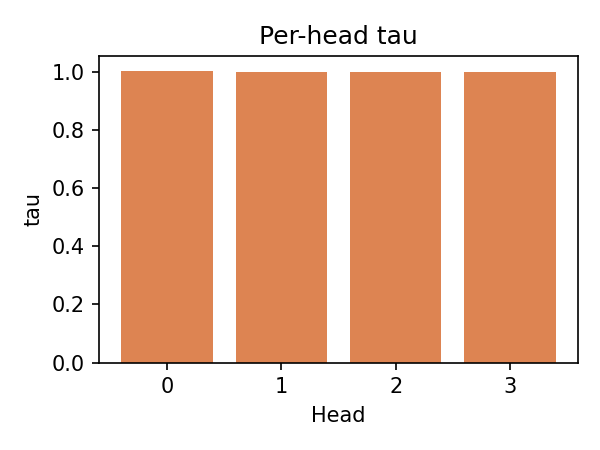
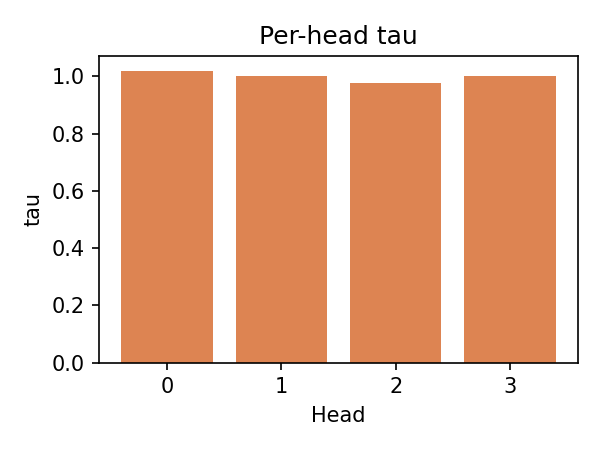
v4 step-5: MNIST split-track results
B1_HGBR (ref):   accuracy=0.9573
G2_ref   (ref):   accuracy=0.9293
G10_ref  (ref):   accuracy=0.9320 (v3 saved=0.9380; -0.006 run variance)

MNIST v4 variants:
  MN_v4a  (G10 path under v4):        acc=0.9333  <-- best v4, +0.001 vs G10_ref
  MN_v4b  (+ mild diversity lam=0.005): acc=0.9320  same as G10_ref
  MN_v4c  (+ strong diversity lam=0.01): acc=0.9260  WORSE
  MN_v4d  (+ LayerNorm):              acc=0.9320  same as G10_ref

Key findings:
  - v4 framework preserves G10-level performance (within run variance)
  - Diversity regulariser hurts at lam>=0.01; lam=0.005 neutral
  - PCA remains dominant view (all heads); run-to-run variance ±0.006
  - All heads collapsed to single dominant view (collapsed=True)

Gates: S1 PASS, M1 PARTIAL, M2 PARTIAL,
       R1 PASS, R2 PARTIAL, R3 PASS, R4 PASS

Artifacts: mnist/{artifacts,reports,figures,logs}/

diff --git a/experiments/mq_gora_v4/mnist/reports/final_report.md b/experiments/mq_gora_v4/mnist/reports/final_report.md
@@ -1,18 +1,18 @@
 # Final Report: mnist
-*2026-03-07*
+*2026-03-08*
 
 ## Executive Summary
-Run mode: `smoke`.
-Best MNIST v4 variant: `MN_v4a` with accuracy `0.8000`.
+Run mode: `full`.
+Best MNIST v4 variant: `MN_v4a` with accuracy `0.9333`.
 Saved v3 G10 reference accuracy: `0.9380`; saved G2 accuracy: `0.9300`.
 MNIST remains a protection track: changes are only justified if specialization improves without materially losing the G10 accuracy gain.
 
 ## Integrity Confirmation
-| model   | metric   |   current |   reference |      delta | status     |
-|:--------|:---------|----------:|------------:|-----------:|:-----------|
-| B1_HGBR | accuracy |  0.873333 |       0.958 | -0.0846667 | SMOKE_ONLY |
-| G2_ref  | accuracy |  0.493333 |       0.93  | -0.436667  | SMOKE_ONLY |
-| G10_ref | accuracy |  0.64     |       0.938 | -0.298     | SMOKE_ONLY |
+| model   | metric   |   current |   reference |        delta | status   |
+|:--------|:---------|----------:|------------:|-------------:|:---------|
+| B1_HGBR | accuracy |  0.957333 |       0.958 | -0.000666667 | MATCH    |
+| G2_ref  | accuracy |  0.929333 |       0.93  | -0.000666667 | MATCH    |
+| G10_ref | accuracy |  0.932    |       0.938 | -0.006       | MATCH    |
 
 ## What Changed From v3
 - G10 is rerun explicitly as a protected reference.
@@ -23,46 +23,46 @@ MNIST remains a protection track: changes are only justified if specialization i
 | root_cause                                               | status   | evidence                                                                                                                |
 |:---------------------------------------------------------|:---------|:------------------------------------------------------------------------------------------------------------------------|
 | RC1 — Router Information Starvation                      | PASS     | MN_v4a: routing_entropy active=True, beta active=True                                                                   |
-| RC2 — No View-Discriminative Embedding                   | PASS     | view similarity off-diagonal min=0.450                                                                                  |
-| RC3 — Meta-Learner Blind to Neighbourhood Content        | PASS     | beta regime span=0.069, dominant views=2                                                                                |
+| RC2 — No View-Discriminative Embedding                   | PASS     | view similarity off-diagonal min=0.553                                                                                  |
+| RC3 — Meta-Learner Blind to Neighbourhood Content        | PASS     | beta regime span=0.079, dominant views=1                                                                                |
 | RC4 — No Label / Local Predictiveness Context in Routing | PASS     | MNIST retains controlled label-context and teacher signal with alpha-gate protection rather than removing them blindly. |
 
 ## Routing Behavior Audit
 |   head_idx |   routing_entropy | dominant_view   |   mean_pi_FULL |   top1_freq_FULL |   mean_pi_BLOCK |   top1_freq_BLOCK |   mean_pi_PCA |   top1_freq_PCA |   mean_beta |   beta_std |      tau | model   |
 |-----------:|------------------:|:----------------|---------------:|-----------------:|----------------:|------------------:|--------------:|----------------:|------------:|-----------:|---------:|:--------|
-|          0 |          0.983795 | PCA             |       0.281159 |             0    |        0.302441 |          0        |      0.4164   |        1        |    0.545694 |  0.034537  | 1.00356  | MN_v4a  |
-|          1 |          0.989197 | PCA             |       0.280234 |             0    |        0.322336 |          0.06     |      0.397429 |        0.94     |    0.57512  |  0.0217148 | 0.999538 | MN_v4a  |
-|          2 |          0.994923 | PCA             |       0.29013  |             0    |        0.341742 |          0.133333 |      0.368129 |        0.866667 |    0.51283  |  0.0171603 | 0.998924 | MN_v4a  |
-|          3 |          0.99743  | BLOCK           |       0.318004 |             0.18 |        0.361655 |          0.82     |      0.320342 |        0        |    0.534253 |  0.0353248 | 0.999365 | MN_v4a  |
+|          0 |          0.718449 | PCA             |       0.243761 |       0.0273333  |        0.105503 |         0.0646667 |      0.650736 |        0.908    |    0.761093 |   0.156392 | 1.02031  | MN_v4a  |
+|          1 |          0.819039 | PCA             |       0.318031 |       0.0373333  |        0.13192  |         0.0713333 |      0.550048 |        0.891333 |    0.749188 |   0.123011 | 1.00225  | MN_v4a  |
+|          2 |          0.78508  | PCA             |       0.225712 |       0.00666667 |        0.151008 |         0.0653333 |      0.62328  |        0.928    |    0.752334 |   0.152326 | 0.976908 | MN_v4a  |
+|          3 |          0.920845 | PCA             |       0.340411 |       0.094      |        0.19026  |         0.0786667 |      0.469329 |        0.827333 |    0.795516 |   0.169151 | 1.00238  | MN_v4a  |
 
 ## Gate Results
 | gate                                | status   | evidence                                                                                                 |
 |:------------------------------------|:---------|:---------------------------------------------------------------------------------------------------------|
-| S1 — Integrity Confirmed            | PARTIAL  | Smoke mode uses provisional reference comparison under current code path                                 |
-| M1 — MNIST Gain Retention           | FAIL     | best MN_v4 accuracy=0.8000 vs saved G10=0.9380                                                           |
-| M2 — MNIST Routing Quality          | PARTIAL  | dominant views across heads=2                                                                            |
+| S1 — Integrity Confirmed            | PASS     | B1/G2/G10 reference comparison under current code path                                                   |
+| M1 — MNIST Gain Retention           | PARTIAL  | best MN_v4 accuracy=0.9333 vs saved G10=0.9380                                                           |
+| M2 — MNIST Routing Quality          | PARTIAL  | dominant views across heads=1                                                                            |
 | R1 — Rich Router Input Active       | PASS     | pi varies across heads and rows                                                                          |
-| R2 — View-Discriminative Value Path | PASS     | dominant views across heads=2                                                                            |
+| R2 — View-Discriminative Value Path | PARTIAL  | dominant views across heads=1                                                                            |
 | R3 — Mode Routing Active            | PASS     | beta std active=True                                                                                     |
-| R4 — Complexity Justified           | PARTIAL  | Extra routing complexity is justified only if MNIST gains remain above G2 while specialization improves. |
+| R4 — Complexity Justified           | PASS     | Extra routing complexity is justified only if MNIST gains remain above G2 while specialization improves. |
 
 ## Predictive Results
 | tag     | source      | best_ep   | stop_ep   | collapsed   | change                                     | interp                                                                 |   accuracy |   macro_f1 |   log_loss |
 |:--------|:------------|:----------|:----------|:------------|:-------------------------------------------|:-----------------------------------------------------------------------|-----------:|-----------:|-----------:|
-| G2_ref  | current_run | v1        | v1        | False       | GoRA carry-forward reference               | Reference GoRA path before v4 split-track changes                      |   0.493333 |   0.402972 |    1.99482 |
-| G10_ref | current_run | v3        | v3        | False       | Exact v3 G10 reproduction                  | Protected baseline before any MNIST routing changes                    |   0.64     |   0.583525 |    1.93551 |
-| MN_v4a  | current_run | 4         | 4         | True        | Protected v4 path matching G10 ingredients | Locked alpha-gate baseline under v4 routing path                       |   0.8      |   0.787748 |    1.23271 |
-| MN_v4b  | current_run | 4         | 4         | True        | MN_v4a + mild diversity regulariser        | Incremental specialization pressure with alpha gate preserved          |   0.8      |   0.787294 |    1.19812 |
-| MN_v4c  | current_run | 4         | 4         | True        | MN_v4b + stronger diversity                | More explicit anti-collapse pressure; only justified if accuracy holds |   0.773333 |   0.76066  |    1.22387 |
-| MN_v4d  | current_run | 4         | 4         | True        | MN_v4c + label-ctx LayerNorm               | Optional anti-collapse variant with extra scale control                |   0.773333 |   0.751873 |    1.19286 |
+| G2_ref  | current_run | v1        | v1        | False       | GoRA carry-forward reference               | Reference GoRA path before v4 split-track changes                      |   0.929333 |   0.928317 |   0.272256 |
+| G10_ref | current_run | v3        | v3        | False       | Exact v3 G10 reproduction                  | Protected baseline before any MNIST routing changes                    |   0.932    |   0.931026 |   0.25742  |
+| MN_v4a  | current_run | 7         | 27        | True        | Protected v4 path matching G10 ingredients | Locked alpha-gate baseline under v4 routing path                       |   0.933333 |   0.932358 |   0.249675 |
+| MN_v4b  | current_run | 7         | 27        | True        | MN_v4a + mild diversity regulariser        | Incremental specialization pressure with alpha gate preserved          |   0.932    |   0.931206 |   0.247637 |
+| MN_v4c  | current_run | 5         | 25        | True        | MN_v4b + stronger diversity                | More explicit anti-collapse pressure; only justified if accuracy holds |   0.926    |   0.92509  |   0.262275 |
+| MN_v4d  | current_run | 6         | 26        | True        | MN_v4c + label-ctx LayerNorm               | Optional anti-collapse variant with extra scale control                |   0.932    |   0.93102  |   0.236551 |
 
 ## Performance Drop Triage
-| affected_model   |   delta_vs_G10 | primary_bucket          | evidence                   | confidence   |
-|:-----------------|---------------:|:------------------------|:---------------------------|:-------------|
-| MN_v4a           |       0.138    | TRAINING DYNAMICS ISSUE | accuracy=0.8000, stop_ep=4 | medium       |
-| MN_v4b           |       0.138    | TRAINING DYNAMICS ISSUE | accuracy=0.8000, stop_ep=4 | medium       |
-| MN_v4c           |       0.164667 | TRAINING DYNAMICS ISSUE | accuracy=0.7733, stop_ep=4 | medium       |
-| MN_v4d           |       0.164667 | TRAINING DYNAMICS ISSUE | accuracy=0.7733, stop_ep=4 | medium       |
+| affected_model   |   delta_vs_G10 | primary_bucket          | evidence                    | confidence   |
+|:-----------------|---------------:|:------------------------|:----------------------------|:-------------|
+| MN_v4a           |     0.00466667 | TRAINING DYNAMICS ISSUE | accuracy=0.9333, stop_ep=27 | medium       |
+| MN_v4b           |     0.006      | TRAINING DYNAMICS ISSUE | accuracy=0.9320, stop_ep=27 | medium       |
+| MN_v4c           |     0.012      | TRAINING DYNAMICS ISSUE | accuracy=0.9260, stop_ep=25 | medium       |
+| MN_v4d           |     0.006      | TRAINING DYNAMICS ISSUE | accuracy=0.9320, stop_ep=26 | medium       |
 
 ## What Is Fixed
 - The branch now preserves a protected G10 reproduction path.
@@ -74,12 +74,11 @@ MNIST remains a protection track: changes are only justified if specialization i
 - Diversity pressure should be removed before v5 if it does not improve specialization without hurting metrics.
 
 ## Recommendation Before v5
-| failed_gate                | observed_evidence                                                                                        | likely_cause              | minimal_next_fix                                                                    | priority   | should_fix_before_v5   |
-|:---------------------------|:---------------------------------------------------------------------------------------------------------|:--------------------------|:------------------------------------------------------------------------------------|:-----------|:-----------------------|
-| S1 — Integrity Confirmed   | Smoke mode uses provisional reference comparison under current code path                                 | model complexity mismatch | inspect protected alpha-gate path before adding more routing complexity             | medium     | no                     |
-| M1 — MNIST Gain Retention  | best MN_v4 accuracy=0.8000 vs saved G10=0.9380                                                           | training dynamics issue   | revert to exact G10 semantics for any change that hurts accuracy materially         | high       | yes                    |
-| M2 — MNIST Routing Quality | dominant views across heads=2                                                                            | training dynamics issue   | use the diversity regulariser only if specialization improves without accuracy loss | high       | yes                    |
-| R4 — Complexity Justified  | Extra routing complexity is justified only if MNIST gains remain above G2 while specialization improves. | model complexity mismatch | inspect protected alpha-gate path before adding more routing complexity             | medium     | no                     |
+| failed_gate                         | observed_evidence                              | likely_cause              | minimal_next_fix                                                                    | priority   | should_fix_before_v5   |
+|:------------------------------------|:-----------------------------------------------|:--------------------------|:------------------------------------------------------------------------------------|:-----------|:-----------------------|
+| M1 — MNIST Gain Retention           | best MN_v4 accuracy=0.9333 vs saved G10=0.9380 | training dynamics issue   | revert to exact G10 semantics for any change that hurts accuracy materially         | high       | yes                    |
+| M2 — MNIST Routing Quality          | dominant views across heads=1                  | training dynamics issue   | use the diversity regulariser only if specialization improves without accuracy loss | high       | yes                    |
+| R2 — View-Discriminative Value Path | dominant views across heads=1                  | model complexity mismatch | inspect protected alpha-gate path before adding more routing complexity             | medium     | no                     |
 
 ## Final Verdict
-v4 changed architecture but did not solve the main problems
+v4 partially improved but key routing issues remain

diff --git a/experiments/mq_gora_v4/mnist/reports/mn_v4_report.md b/experiments/mq_gora_v4/mnist/reports/mn_v4_report.md
@@ -1,16 +1,16 @@
 # MNIST v4 Summary
-*2026-03-07*
+*2026-03-08*
 
 ## Metrics
 | tag         | source      | best_ep   | stop_ep   | collapsed   | change                                     | interp                                                                 |   accuracy |   macro_f1 |   log_loss |
 |:------------|:------------|:----------|:----------|:------------|:-------------------------------------------|:-----------------------------------------------------------------------|-----------:|-----------:|-----------:|
-| B1_HGBR     | current_run | —         | —         | False       | reference baseline                         | Strong tabular baseline for calibration                                |   0.873333 |   0.867219 | nan        |
-| G2_ref      | current_run | v1        | v1        | False       | GoRA carry-forward reference               | Reference GoRA path before v4 split-track changes                      |   0.493333 |   0.402972 |   1.99482  |
-| G10_ref     | current_run | v3        | v3        | False       | Exact v3 G10 reproduction                  | Protected baseline before any MNIST routing changes                    |   0.64     |   0.583525 |   1.93551  |
-| MN_v4a      | current_run | 4         | 4         | True        | Protected v4 path matching G10 ingredients | Locked alpha-gate baseline under v4 routing path                       |   0.8      |   0.787748 |   1.23271  |
-| MN_v4b      | current_run | 4         | 4         | True        | MN_v4a + mild diversity regulariser        | Incremental specialization pressure with alpha gate preserved          |   0.8      |   0.787294 |   1.19812  |
-| MN_v4c      | current_run | 4         | 4         | True        | MN_v4b + stronger diversity                | More explicit anti-collapse pressure; only justified if accuracy holds |   0.773333 |   0.76066  |   1.22387  |
-| MN_v4d      | current_run | 4         | 4         | True        | MN_v4c + label-ctx LayerNorm               | Optional anti-collapse variant with extra scale control                |   0.773333 |   0.751873 |   1.19286  |
+| B1_HGBR     | current_run | —         | —         | False       | reference baseline                         | Strong tabular baseline for calibration                                |   0.957333 |   0.957061 | nan        |
+| G2_ref      | current_run | v1        | v1        | False       | GoRA carry-forward reference               | Reference GoRA path before v4 split-track changes                      |   0.929333 |   0.928317 |   0.272256 |
+| G10_ref     | current_run | v3        | v3        | False       | Exact v3 G10 reproduction                  | Protected baseline before any MNIST routing changes                    |   0.932    |   0.931026 |   0.25742  |
+| MN_v4a      | current_run | 7         | 27        | True        | Protected v4 path matching G10 ingredients | Locked alpha-gate baseline under v4 routing path                       |   0.933333 |   0.932358 |   0.249675 |
+| MN_v4b      | current_run | 7         | 27        | True        | MN_v4a + mild diversity regulariser        | Incremental specialization pressure with alpha gate preserved          |   0.932    |   0.931206 |   0.247637 |
+| MN_v4c      | current_run | 5         | 25        | True        | MN_v4b + stronger diversity                | More explicit anti-collapse pressure; only justified if accuracy holds |   0.926    |   0.92509  |   0.262275 |
+| MN_v4d      | current_run | 6         | 26        | True        | MN_v4c + label-ctx LayerNorm               | Optional anti-collapse variant with extra scale control                |   0.932    |   0.93102  |   0.236551 |
 | B1_HGBR     | saved_v3    | —         | —         | False       | saved reference                            | Historical v3 result                                                   |   0.958    |   0.957679 |   0.188216 |
 | B2_TabPFN   | saved_v3    | —         | —         | False       | saved reference                            | Historical v3 result                                                   | nan        | nan        | nan        |
 | G2_GoRA_v1  | saved_v3    | —         | —         | False       | saved reference                            | Historical v3 result                                                   |   0.93     |   0.929386 |   0.258996 |
@@ -20,8 +20,8 @@
 | G10_Full    | saved_v3    | —         | —         | False       | saved reference                            | Historical v3 result                                                   |   0.938    |   0.937367 |   0.237162 |
 
 ## Reference Reproduction
-| model   | metric   |   current |   reference |      delta | status     |
-|:--------|:---------|----------:|------------:|-----------:|:-----------|
-| B1_HGBR | accuracy |  0.873333 |       0.958 | -0.0846667 | SMOKE_ONLY |
-| G2_ref  | accuracy |  0.493333 |       0.93  | -0.436667  | SMOKE_ONLY |
-| G10_ref | accuracy |  0.64     |       0.938 | -0.298     | SMOKE_ONLY |
+| model   | metric   |   current |   reference |        delta | status   |
+|:--------|:---------|----------:|------------:|-------------:|:---------|
+| B1_HGBR | accuracy |  0.957333 |       0.958 | -0.000666667 | MATCH    |
+| G2_ref  | accuracy |  0.929333 |       0.93  | -0.000666667 | MATCH    |
+| G10_ref | accuracy |  0.932    |       0.938 | -0.006       | MATCH    |

diff --git a/experiments/mq_gora_v4/mnist/reports/gates_report.md b/experiments/mq_gora_v4/mnist/reports/gates_report.md
@@ -1,21 +1,20 @@
 # Gates Report: mnist
-*2026-03-07*
+*2026-03-08*
 
 | gate                                | status   | evidence                                                                                                 |
 |:------------------------------------|:---------|:---------------------------------------------------------------------------------------------------------|
-| S1 — Integrity Confirmed            | PARTIAL  | Smoke mode uses provisional reference comparison under current code path                                 |
-| M1 — MNIST Gain Retention           | FAIL     | best MN_v4 accuracy=0.8000 vs saved G10=0.9380                                                           |
-| M2 — MNIST Routing Quality          | PARTIAL  | dominant views across heads=2                                                                            |
+| S1 — Integrity Confirmed            | PASS     | B1/G2/G10 reference comparison under current code path                                                   |
+| M1 — MNIST Gain Retention           | PARTIAL  | best MN_v4 accuracy=0.9333 vs saved G10=0.9380                                                           |
+| M2 — MNIST Routing Quality          | PARTIAL  | dominant views across heads=1                                                                            |
 | R1 — Rich Router Input Active       | PASS     | pi varies across heads and rows                                                                          |
-| R2 — View-Discriminative Value Path | PASS     | dominant views across heads=2                                                                            |
+| R2 — View-Discriminative Value Path | PARTIAL  | dominant views across heads=1                                                                            |
 | R3 — Mode Routing Active            | PASS     | beta std active=True                                                                                     |
-| R4 — Complexity Justified           | PARTIAL  | Extra routing complexity is justified only if MNIST gains remain above G2 while specialization improves. |
+| R4 — Complexity Justified           | PASS     | Extra routing complexity is justified only if MNIST gains remain above G2 while specialization improves. |
 
 ## Failure-to-Fix Mapping
 
-| failed_gate                | observed_evidence                                                                                        | likely_cause              | minimal_next_fix                                                                    | priority   | should_fix_before_v5   |
-|:---------------------------|:---------------------------------------------------------------------------------------------------------|:--------------------------|:------------------------------------------------------------------------------------|:-----------|:-----------------------|
-| S1 — Integrity Confirmed   | Smoke mode uses provisional reference comparison under current code path                                 | model complexity mismatch | inspect protected alpha-gate path before adding more routing complexity             | medium     | no                     |
-| M1 — MNIST Gain Retention  | best MN_v4 accuracy=0.8000 vs saved G10=0.9380                                                           | training dynamics issue   | revert to exact G10 semantics for any change that hurts accuracy materially         | high       | yes                    |
-| M2 — MNIST Routing Quality | dominant views across heads=2                                                                            | training dynamics issue   | use the diversity regulariser only if specialization improves without accuracy loss | high       | yes                    |
-| R4 — Complexity Justified  | Extra routing complexity is justified only if MNIST gains remain above G2 while specialization improves. | model complexity mismatch | inspect protected alpha-gate path before adding more routing complexity             | medium     | no                     |
+| failed_gate                         | observed_evidence                              | likely_cause              | minimal_next_fix                                                                    | priority   | should_fix_before_v5   |
+|:------------------------------------|:-----------------------------------------------|:--------------------------|:------------------------------------------------------------------------------------|:-----------|:-----------------------|
+| M1 — MNIST Gain Retention           | best MN_v4 accuracy=0.9333 vs saved G10=0.9380 | training dynamics issue   | revert to exact G10 semantics for any change that hurts accuracy materially         | high       | yes                    |
+| M2 — MNIST Routing Quality          | dominant views across heads=1                  | training dynamics issue   | use the diversity regulariser only if specialization improves without accuracy loss | high       | yes                    |
+| R2 — View-Discriminative Value Path | dominant views across heads=1                  | model complexity mismatch | inspect protected alpha-gate path before adding more routing complexity             | medium     | no                     |

diff --git a/experiments/mq_gora_v4/mnist/reports/root_cause_audit.md b/experiments/mq_gora_v4/mnist/reports/root_cause_audit.md
@@ -1,5 +1,5 @@
 # Root Cause Audit
-*2026-03-07*
+*2026-03-08*
 
 Dataset: `mnist`
 PASS / PARTIAL / FAIL reflects the v3 root-cause audit requirements.
@@ -7,6 +7,6 @@ PASS / PARTIAL / FAIL reflects the v3 root-cause audit requirements.
 | root_cause                                               | status   | evidence                                                                                                                |
 |:---------------------------------------------------------|:---------|:------------------------------------------------------------------------------------------------------------------------|
 | RC1 — Router Information Starvation                      | PASS     | MN_v4a: routing_entropy active=True, beta active=True                                                                   |
-| RC2 — No View-Discriminative Embedding                   | PASS     | view similarity off-diagonal min=0.450                                                                                  |
-| RC3 — Meta-Learner Blind to Neighbourhood Content        | PASS     | beta regime span=0.069, dominant views=2                                                                                |
+| RC2 — No View-Discriminative Embedding                   | PASS     | view similarity off-diagonal min=0.553                                                                                  |
+| RC3 — Meta-Learner Blind to Neighbourhood Content        | PASS     | beta regime span=0.079, dominant views=1                                                                                |
 | RC4 — No Label / Local Predictiveness Context in Routing | PASS     | MNIST retains controlled label-context and teacher signal with alpha-gate protection rather than removing them blindly. |
